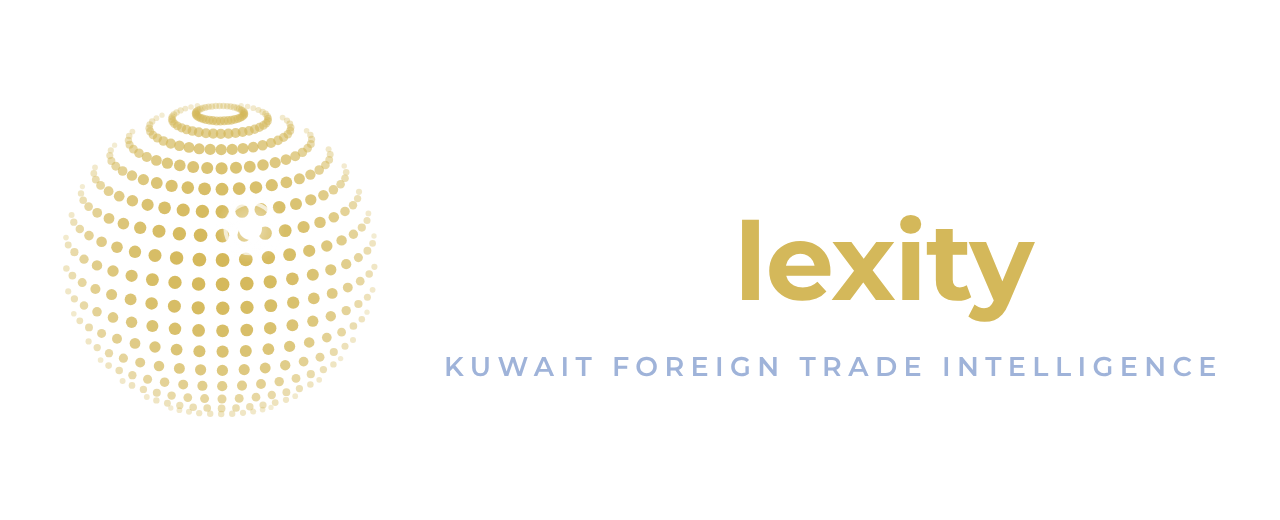
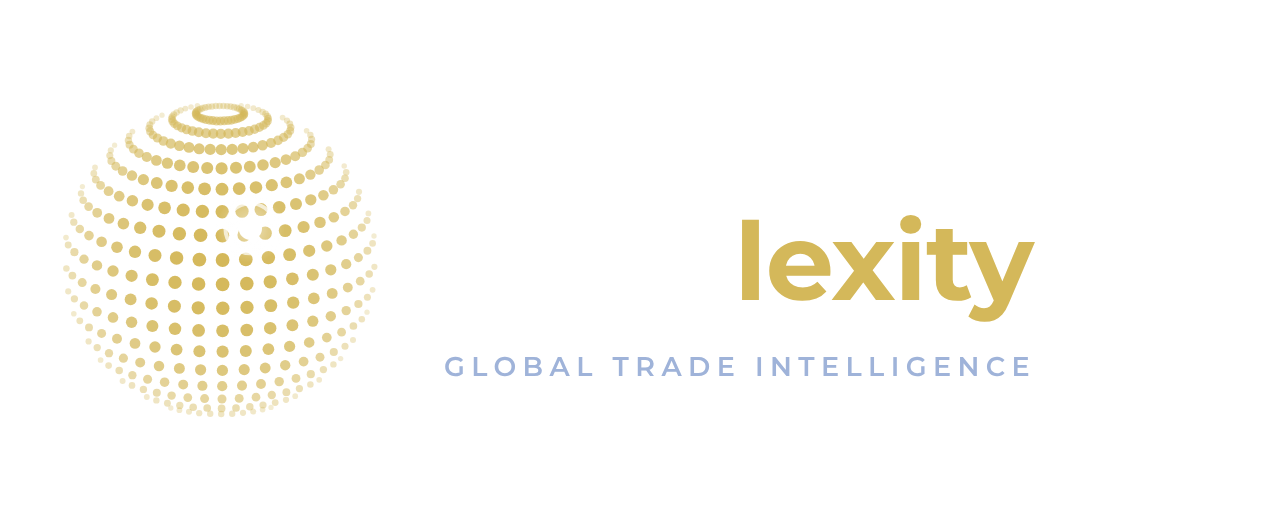
Tagline: GLOBAL TRADE INTELLIGENCE
Claude-Session: https://claude.ai/code/session_01FbwtypeN9mt5apKJ5SLWv9

Changed region(s): [[0.3438, 0.6769, 0.9688, 0.7385]]

diff --git a/Kuwait-Tradelexity/index.html b/Kuwait-Tradelexity/index.html
@@ -318,7 +318,7 @@ table td.n,table th.n{text-align:center!important}table th.n{direction:rtl;unico
 </style>
 </head>
 <body>
-<div id="intro" data-w="1" role="dialog" aria-label="الصفحة الافتتاحية"><div class="tsp" aria-hidden="true"><canvas id="tspG"></canvas><div class="tspN"><span style="--d:0.90s" class="">t</span><span style="--d:0.99s" class="">r</span><span style="--d:1.08s" class="">a</span><span style="--d:1.17s" class="">d</span><span style="--d:1.26s" class="">e</span><span style="--d:1.35s" class="g">l</span><span style="--d:1.44s" class="g">e</span><span style="--d:1.53s" class="g">x</span><span style="--d:1.62s" class="g">i</span><span style="--d:1.71s" class="g">t</span><span style="--d:1.80s" class="g">y</span></div><div class="tspT">KUWAIT FOREIGN TRADE INTELLIGENCE</div></div>
+<div id="intro" data-w="1" role="dialog" aria-label="الصفحة الافتتاحية"><div class="tsp" aria-hidden="true"><canvas id="tspG"></canvas><div class="tspN"><span style="--d:0.90s" class="">t</span><span style="--d:0.99s" class="">r</span><span style="--d:1.08s" class="">a</span><span style="--d:1.17s" class="">d</span><span style="--d:1.26s" class="">e</span><span style="--d:1.35s" class="g">l</span><span style="--d:1.44s" class="g">e</span><span style="--d:1.53s" class="g">x</span><span style="--d:1.62s" class="g">i</span><span style="--d:1.71s" class="g">t</span><span style="--d:1.80s" class="g">y</span></div><div class="tspT">GLOBAL TRADE INTELLIGENCE</div></div>
   <div class="istars"></div>
   <div class="iin">
     <img src="emblem.png" alt="شعار دولة الكويت" class="iemb">
@@ -753,7 +753,7 @@ function armCounts(root){if(!cntIO||matchMedia('(prefers-reduced-motion: reduce)
 new MutationObserver(ms=>{const set=new Set();ms.forEach(m=>{const t=m.target.nodeType===1?m.target:m.target.parentElement;if(t&&!t.closest('b'))set.add(t);});set.forEach(armCounts);}).observe(document.querySelector('main'),{childList:true,subtree:true});
 
 // ---------- auto-update (bypass stale phone cache) ----------
-const BUILD='1795693624';
+const BUILD='1795694040';
 try{fetch(location.pathname+'?b='+Date.now(),{cache:'no-store'}).then(r=>r.text()).then(h=>{const m=h.match(/const BUILD='(\d+)'/);if(m&&m[1]>BUILD&&!sessionStorage.getItem('rl'+m[1])){sessionStorage.setItem('rl'+m[1],'1');location.replace(location.pathname+'?v='+m[1]+location.hash);}}).catch(()=>{});}catch(_){}
 
 // ---------- products: commodity search & selection ----------

diff --git a/Kuwait-Tradelexity/en.html b/Kuwait-Tradelexity/en.html
@@ -319,7 +319,7 @@ table td.n,table th.n{text-align:center!important}table th.n{direction:rtl;unico
 </style>
 </head>
 <body>
-<div id="intro" data-w="1" role="dialog" aria-label="Opening page"><div class="tsp" aria-hidden="true"><canvas id="tspG"></canvas><div class="tspN"><span style="--d:0.90s" class="">t</span><span style="--d:0.99s" class="">r</span><span style="--d:1.08s" class="">a</span><span style="--d:1.17s" class="">d</span><span style="--d:1.26s" class="">e</span><span style="--d:1.35s" class="g">l</span><span style="--d:1.44s" class="g">e</span><span style="--d:1.53s" class="g">x</span><span style="--d:1.62s" class="g">i</span><span style="--d:1.71s" class="g">t</span><span style="--d:1.80s" class="g">y</span></div><div class="tspT">KUWAIT FOREIGN TRADE INTELLIGENCE</div></div>
+<div id="intro" data-w="1" role="dialog" aria-label="Opening page"><div class="tsp" aria-hidden="true"><canvas id="tspG"></canvas><div class="tspN"><span style="--d:0.90s" class="">t</span><span style="--d:0.99s" class="">r</span><span style="--d:1.08s" class="">a</span><span style="--d:1.17s" class="">d</span><span style="--d:1.26s" class="">e</span><span style="--d:1.35s" class="g">l</span><span style="--d:1.44s" class="g">e</span><span style="--d:1.53s" class="g">x</span><span style="--d:1.62s" class="g">i</span><span style="--d:1.71s" class="g">t</span><span style="--d:1.80s" class="g">y</span></div><div class="tspT">GLOBAL TRADE INTELLIGENCE</div></div>
   <div class="istars"></div>
   <div class="iin">
     <img src="emblem.png" alt="State of Kuwait emblem" class="iemb">
@@ -754,7 +754,7 @@ function armCounts(root){if(!cntIO||matchMedia('(prefers-reduced-motion: reduce)
 new MutationObserver(ms=>{const set=new Set();ms.forEach(m=>{const t=m.target.nodeType===1?m.target:m.target.parentElement;if(t&&!t.closest('b'))set.add(t);});set.forEach(armCounts);}).observe(document.querySelector('main'),{childList:true,subtree:true});
 
 // ---------- auto-update (bypass stale phone cache) ----------
-const BUILD='1795693624';
+const BUILD='1795694040';
 try{fetch(location.pathname+'?b='+Date.now(),{cache:'no-store'}).then(r=>r.text()).then(h=>{const m=h.match(/const BUILD='(\d+)'/);if(m&&m[1]>BUILD&&!sessionStorage.getItem('rl'+m[1])){sessionStorage.setItem('rl'+m[1],'1');location.replace(location.pathname+'?v='+m[1]+location.hash);}}).catch(()=>{});}catch(_){}
 
 // ---------- products: commodity search & selection ----------
